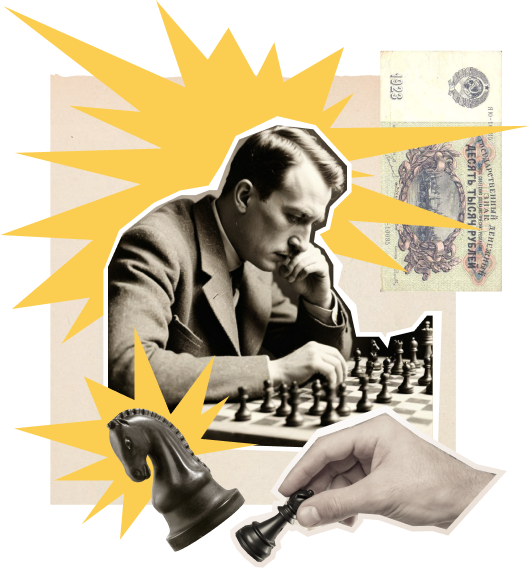
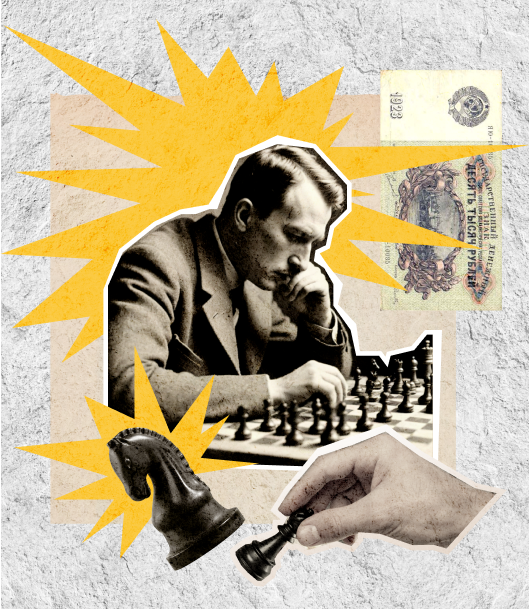
changed

diff --git a/index.html b/index.html
@@ -90,7 +90,6 @@
     </section>
       <section class="advertisement">
         <div class="container advertisement__inner">
-          <div class="advertisement__container">
             <div class="advertisement__main">
               <h1 class="advertisement__main-title">
                 Чтобы поддержать Международный васюкинский турнир посетите
@@ -106,12 +105,12 @@
               />
             </div>
             <div class="advertisement__box">
-              <div class="advertisement__box-imgs">
                 <img
                   class="advertisement__background-img"
-                  src="./images/background-adver.png"
+                  src="./images/back-adver.png"
                   alt=""
                 />
+                <!--
                 <img
                   class="advertisement__back-img"
                   src="./images/all elements' back.png"
@@ -146,8 +145,8 @@
                   class="advertisement__hand-img"
                   src="./images/hand with chess.png"
                   alt=""
-                />
-              </div>
+                /> -->
+              
               <div class="advertisement__content">
                 <h1 class="advertisement__content-title">
                   и Сеанс
@@ -156,71 +155,16 @@
                   >
                   гроссмейстера О. Бендера
                 </h1>
-                <div class="advertisement__content-container">
-                  <ul class="advertisement__content-list">
-                    <li class="advertisement__list-item">
+                <div class="advertisement__list">
+                    <div class="advertisement__list-item">
                       <p class="advertisement__item-description">
                         Место проведения:
                       </p>
-                    </li>
-                    <hr class="advertisement__content-line" />
-                    <li class="advertisement__item-item">
-                      <p class="advertisement__item-description">
-                        Дата и время мероприятия:
-                      </p>
-                    </li>
-                    <hr class="advertisement__content-line" />
-                    <li class="advertisement__item-item">
-                      <p class="advertisement__item-description">
-                        Стоимость входных билетов:
-                      </p>
-                    </li>
-                    <hr class="advertisement__content-line" />
-                    <li class="advertisement__item-item">
-                      <p class="advertisement__item-description">
-                        Плата за игру:
-                      </p>
-                    </li>
-                    <hr class="advertisement__content-line" />
-                    <li class="advertisement__item-item">
-                      <p class="advertisement__item-description">
-                        Взнос на телеграммы:
-                      </p>
-                    </li>
-                  </ul>
-                  <hr class="advertisement__content-divider" />
-                  <ul class="advertisement__content-list">
-                    <li class="advertisement__list-item">
-                      <p class="advertisement__item-text">Клуб «Картонажник»</p>
-                    </li>
-                    <hr class="advertisement__content-line" />
-                    <li class="advertisement__item-item">
-                      <p class="advertisement__item-text">
-                        22 июня 1927 г. в 18:00
-                      </p>
-                    </li>
-                    <hr class="advertisement__content-line" />
-                    <li class="advertisement__item-item">
-                      <p class="advertisement__item-text">20 коп.</p>
-                    </li>
-                    <hr class="advertisement__content-line" />
-                    <li class="advertisement__item-item">
-                      <p class="advertisement__item-text">50 коп.</p>
-                    </li>
-                    <hr class="advertisement__content-line" />
-                    <li class="advertisement__item-item">
-                      <p class="advertisement__item-text">
-                        <span>100 руб.</span> 21 руб. 16 коп.
-                      </p>
-                    </li>
-                  </ul>
-                </div>
-                <p class="advertisement__content-description">
-                  По всем вопросам обращаться в администрацию к К. Михельсону
-                </p>
-              </div>
+                    </div>
+                    </div>
+
+                    </div>
             </div>
-          </div>
         </div>
       </section>
       <section class="stages">

diff --git a/css/style.css b/css/style.css
@@ -235,24 +235,22 @@ textarea {
   padding: 80px 0px 100px;
 }
 
-.advertisement__container {
-  display: flex;
-  flex-direction: column;
-  gap: 64px;
-}
+
 
 .advertisement__main {
   display: flex;
   align-items: center;
-  gap: 40px;
+  gap: 64px;
+  margin-bottom: 64px;
 }
 
 .advertisement__main-title {
   font-family: var(--title-font);
   font-weight: 400;
-  font-size: clamp(20px, 5vw, 36px);
+  font-size: clamp(28px, 2.5vw, 36px);
   text-transform: uppercase;
-  line-height: 1.2;
+  line-height: 48px;
+  color: var(--main-text-color);
 }
 
 .advertisement__last-title {
@@ -261,29 +259,24 @@ textarea {
 }
 
 .advertisement__main-img {
-  width: 394px;
+  width: clamp(335, 100%, 394px);
+  border-radius: 87px;
 }
 
 .advertisement__box {
-  display: flex;
-  gap: 44px;
+ display: flex;
+ justify-content: space-between;
+ gap: 17px;
 }
 
-.advertisement__box-imgs {
-  position: relative;
-  
-}
+
+
 
 .advertisement__background-img {
-  
-}
-.advertisement__back-img {
-  position: absolute;
-  top: 65px;
-  left: 50px;
+  width: clamp(420px, 100%, 609px);
 }
 
-.advertisement__man-img {
+/*.advertisement__man-img {
   position: absolute;
   top: 100px;
   left: 100px;
@@ -325,61 +318,21 @@ textarea {
   bottom: -25px;
   right: 25px;
   z-index: 1000;
-}
+}*/
 
 .advertisement__content-title {
   font-family: var(--title-font);
   font-weight: 400;
-  font-size: clamp(20px, 2.3vw, 36px);
+  font-size: clamp(28px, 2.5vw, 36px);
   text-transform: uppercase;
-  line-height: 1.3;
+  line-height: 48px;
   margin-bottom: 60px;
+  color: var(--main-text-color);
 }
 
 .advertisement__content-color {
   font-weight: 700;
   color: var(--red-text-color);
-}
-
-.advertisement__content-container {
-  display: flex;
-  margin-bottom: 48px;
-  
-}
-
-.advertisement__content-divider {
-  border: 2px solid #D0D0D0;
-}
-
-.advertisement__content-list {
-  display: flex;
-  flex-direction: column;
-  
-}
-
-.advertisement__item-description {
-  color: var(--main-text-color);
-  font-size: clamp(14px, 1.3vw, 20px);
-  margin-top: 16px;
-  margin-bottom: 16px;
-  margin-right: 16px;
-}
-
-.advertisement__content-line {
-  width: 100%;
-  border: 2px solid #D0D0D0;
-}
-
-.advertisement__item-text {
-  color: var(--main-text-color);
-  font-size: clamp(14px, 1.3vw, 20px);
-  font-weight: 600;
-  margin: 16px;
-}
-
-.advertisement__content-description {
-  color: var(--blue-text-color);
-  font-size: clamp(14px, 1.3vw, 20px);
 }
 
 
